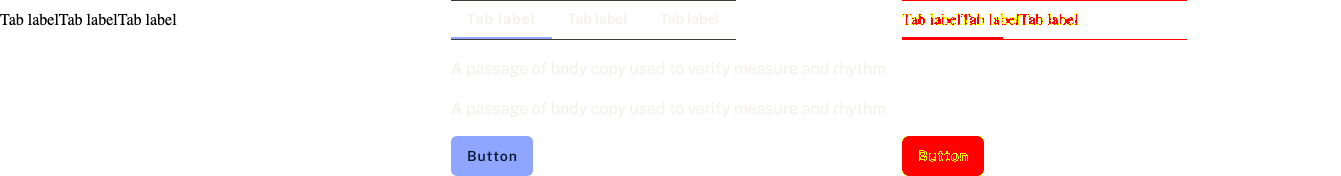
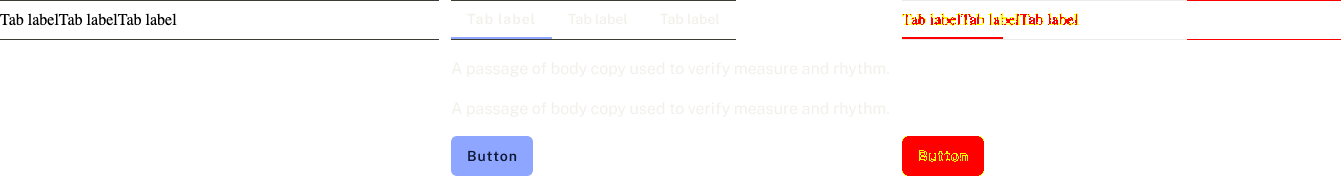
Re-measure Altitude Tabs with per-side strokes carried: the header rule is drawn, both variants still fail the limit
Re-ran the design-led pipeline on the real Altitude Tabs set (read-only REST)
under dump v1.34 and replaced the evidence with the fresh output.

- image difference 5.67 % -> 5.33 % (default) and 6.14 % -> 5.00 % (stretch,
  5.0049 %). Both remain ABOVE the unchanged 5 % limit; neither is a pass.
- the consumer's height now matches Figma's 176 px (was 174): the two 1 px
  rules occupy layout. Ink 1.4 % -> 2.5 % against the design's 12.7 %.
- stroke-weights-nonuniform receipts on the set: 2 -> 0.
- the generated header CSS carries border-top-width/border-bottom-width 1px
  with their solid keywords and no uniform border-width to hide them.

The Tab stub no longer carries a per-`active` border-color beside a false
`border-width: 0px`. That colour painted nothing; with REST no longer feeding
the stub path a uniform 0, the existing stub-stroke door withholds both halves
and the active tab's bottom-only 2 px indicator is NAMED in the proposal. The
receipt's problem set is unchanged. Drawing it is the stub geometry's next climb.

Generated without --stories, as the committed evidence was, so the receipt keeps
its 11 hashed files. docs: STYLE-FIDELITY A12 and the CURRENT.md Tabs clauses
state what is now true.

diff --git a/recipe/evidence/design-led-consumer/altitude-tabs/consumer-built.css b/recipe/evidence/design-led-consumer/altitude-tabs/consumer-built.css
@@ -225,14 +225,10 @@
   --font-weight-regular: 400;
   --font-weight-semibold: 600;
   --imported-stub-tab-2-root-background-color: #00000000;
-  --imported-stub-tab-2-root-border-color-no: #00000000;
-  --imported-stub-tab-2-root-border-color-yes: #8ea6ff;
-  --imported-stub-tab-2-root-border-width: 0px;
   --imported-stub-tab-2-root-height: 38px;
   --imported-stub-tab-panel-root-height: 136px;
   --imported-stub-tab-panel-root-width: 439px;
   --imported-tabs-al-c-tabs-header-border-color: #3c3c35;
-  --imported-tabs-al-c-tabs-header-border-width: 0px;
   --opacity-disabled: 0.5;
   --radius-100: 4px;
   --radius-200: 8px;
@@ -313,29 +309,20 @@
  * Regenerate with: npm run generate
  */
 
-._root_1cwa4_6,
-._root_1cwa4_6 *,
-._root_1cwa4_6 *::before,
-._root_1cwa4_6 *::after {
+._root_1cy4r_6,
+._root_1cy4r_6 *,
+._root_1cy4r_6 *::before,
+._root_1cy4r_6 *::after {
   box-sizing: border-box;
 }
 
-._root_1cwa4_6 {
+._root_1cy4r_6 {
   display: inline-flex;
   align-items: center;
   justify-content: center;
-  border-style: solid;
+  border: 0;
   height: var(--imported-stub-tab-2-root-height);
   background-color: var(--imported-stub-tab-2-root-background-color);
-  border-width: var(--imported-stub-tab-2-root-border-width);
-}
-
-._active-yes_1cwa4_23 {
-  border-color: var(--imported-stub-tab-2-root-border-color-yes);
-}
-
-._active-no_1cwa4_27 {
-  border-color: var(--imported-stub-tab-2-root-border-color-no);
 }
 /* GENERATED FILE — DO NOT EDIT.
  * Source of truth: contracts/tab-panel.contract.json (ds.tab-panel v0.1.0)
@@ -362,14 +349,14 @@
  * Regenerate with: npm run generate
  */
 
-._root_19y6t_6,
-._root_19y6t_6 *,
-._root_19y6t_6 *::before,
-._root_19y6t_6 *::after {
+._root_13tpd_6,
+._root_13tpd_6 *,
+._root_13tpd_6 *::before,
+._root_13tpd_6 *::after {
   box-sizing: border-box;
 }
 
-._root_19y6t_6 {
+._root_13tpd_6 {
   display: flex;
   flex-direction: column;
   border: 0;
@@ -377,20 +364,24 @@
   height: fit-content;
 }
 
-._alCTabsHeader_19y6t_21 {
+._alCTabsHeader_13tpd_21 {
   display: flex;
   flex-direction: row;
   border-color: var(--imported-tabs-al-c-tabs-header-border-color);
-  border-width: var(--imported-tabs-al-c-tabs-header-border-width);
-  border-style: solid;
+  border-top-style: solid;
+  border-bottom-style: solid;
+  border-top-width: 1px;
+  border-right-width: 0px;
+  border-bottom-width: 1px;
+  border-left-width: 0px;
 }
 
-._alCTabsList_19y6t_29 {
+._alCTabsList_13tpd_33 {
   display: flex;
   flex-direction: row;
 }
 
-._alCTabsBody_19y6t_34 {
+._alCTabsBody_13tpd_38 {
   display: flex;
   flex-direction: column;
 }

diff --git a/docs/CURRENT.md b/docs/CURRENT.md
@@ -28,7 +28,7 @@ These steps describe the intended product workflow. The full application integra
 | --- | --- | --- |
 | Original React source | A host-configured source preset opens ten original cases. The app exposes source checks, archived replay, measured trees, negative controls and side-by-side source images. Changed inputs or altered evidence invalidate readiness. | General repository onboarding, broader theme/state coverage and the admission boundary into conversion. |
 | React → editable Figma | The local app creates native root variants and a closed composed Card graph through the companion plugin. The graph contains seven dependency components, six parent variants, bound variables, forwarded Boolean state, native nested instances and directly editable caller text. Independent readback of the parent passed, including after Figma re-identified slot content; dependency mains are checked by identity only. A live edit stayed isolated to one instance, and repeat preparation created no duplicate operation or component set. Dependencies that themselves carry caller content in nested slots are refused by inventory. One application review shows the unchanged original beside the native default variant at original pixel scale. | Qualify fidelity and behavior across the frozen cohort with a deterministic score, and reduce first-run latency. Unsupported nested property representations must continue to refuse by name. |
-| Figma → reusable React | Readers propose contracts and deterministic emitters generate React. Both React emitters preserve declared root-toggle indeterminate state, disabled behavior and controlled values; an omitted state without a default remains unset. Declared next-value callbacks let consumers update controlled root and nested toggles, including triggers with literal text or slots. A separate declared initializer preserves default-only inputs without turning them into controlled state. A clean-consumer check now packages generated output, installs it into an isolated Vite consumer, mounts every variant, exercises the TEXT-bound prop and variant switching, checks whether undeclared children are refused or discarded, and scores each variant against Figma's render. On the designer-authored Altitude Badge set the library installed and behaved except that undeclared React children are accepted and discarded (a named failure), five dot variants scored 0% under the limit, and the five text variants, once both readers carried the designer's 1 px letter spacing instead of naming it a loss, render 57.27 px against Figma's 57 px: three pass the limit and two remain just above it (5.26 % and 6.90 %). The composed Altitude Tabs set installed with two auto-proposed child stubs and rendered its items from the design sample, but its Stretch axis was ledgered inert, per-side strokes and the panel's sample content were not carried, and both variants failed the limit. | Composition, instance swaps, declared behavior beyond text and variant props, accessibility measurement and the in-app review remain unfinished; two text-bearing Badge variants remain just above the image limit; the consumer check loads no font of its own and relies on the host having the design's family installed. |
+| Figma → reusable React | Readers propose contracts and deterministic emitters generate React. Both React emitters preserve declared root-toggle indeterminate state, disabled behavior and controlled values; an omitted state without a default remains unset. Declared next-value callbacks let consumers update controlled root and nested toggles, including triggers with literal text or slots. A separate declared initializer preserves default-only inputs without turning them into controlled state. A clean-consumer check now packages generated output, installs it into an isolated Vite consumer, mounts every variant, exercises the TEXT-bound prop and variant switching, checks whether undeclared children are refused or discarded, and scores each variant against Figma's render. On the designer-authored Altitude Badge set the library installed and behaved except that undeclared React children are accepted and discarded (a named failure), five dot variants scored 0% under the limit, and the five text variants, once both readers carried the designer's 1 px letter spacing instead of naming it a loss, render 57.27 px against Figma's 57 px: three pass the limit and two remain just above it (5.26 % and 6.90 %). The composed Altitude Tabs set installed with two auto-proposed child stubs and rendered its items from the design sample, but its Stretch axis was ledgered inert, the panel's sample content was not carried, and both variants failed the limit; the header's per-side strokes are carried since dump v1.34, while the active tab's per-side indicator on an instance stub is named, not drawn. | Composition, instance swaps, declared behavior beyond text and variant props, accessibility measurement and the in-app review remain unfinished; two text-bearing Badge variants remain just above the image limit; the consumer check loads no font of its own and relies on the host having the design's family installed. |
 | Changes and repair | The app applied reviewed opacity corrections to Checkbox variants, a fixed-height correction to a Button main, shadow-stack corrections to two Card mains, and SVG stroke corrections to six Checkbox vectors, with independent readbacks and preserved node identities. Channel diffs, three-way merge rules and proposal planning also exist. | Corrections cover opacity, literal dimensions on supported empty flex roots, supported root shadow stacks, and uniform strokes in simple viewBox-only SVG paths. Consecutive corrections retain a verified baseline chain; unresolved writes and conflicting changes refuse further application. The app can also repair the exact unrequested invisible default root paint on an otherwise valid draft; all other observed fields must match. The general sync spine still plans without applying. General two-way apply, baseline advancement, interruption recovery and rollback still need end-to-end proof. |
 | Release readiness | Shared engine checks and bounded evidence are available. | Complete both journeys, repair/recovery and the independent cohort before qualifying V1. |
 
@@ -121,7 +121,7 @@ The owner's React-only V1 asks for five demonstrations. Each row names what the 
 | Criterion | Demonstrated through the application | Evidence | Concrete gap |
 | --- | --- | --- | --- |
 | 1 · React → contract → editable native Figma for simple, stateful and composed components | Button (simple), Checkbox (stateful, 12 initial-state variants) and the composed Card graph (seven dependencies, six parent variants, 169 scoped variables) are created through the companion plugin from the verified shadcn cohort; the parent structure passes independent readback, including after Figma re-identified slot content; a live title edit stayed local to one instance; repeat preparation created no duplicates; the app shows the unchanged original beside the native default variant. | `/sources` → composed Card → **Check native composition** → **Create and inspect native graph**; private operation journal `4e6e22c3…` in the Evaluations file. | Visual fidelity is unqualified (seven Button initial-state exports still exceed the image limit; Card typography differs); dependency mains are verified by identity only; two-level caller content and deeper slot locations refuse by name; first-run latency remains too slow. |
-| 2 · Designer-authored Figma → contract → working React in a clean consumer | `npm run design:consumer:check` packages generated output, installs it into an isolated Vite consumer, mounts every variant, exercises text, array and variant props, refuses undeclared children by type, and scores each variant against Figma's render. Altitude Badge installed and behaved; Altitude Tabs (composed, two child stubs) installed and rendered its items from the design sample. | `recipe/evidence/design-led-consumer/{altitude-badge,altitude-tabs}/receipt.json`. | Badge: the 53 px against 57 px label was dropped letter spacing, not font metrics. Both Figma readers named the designer's 1 px tracking a loss while the proposer, the `letter-spacing` channel and the CSS emitter already carried it; they now carry it (dump v1.33). Re-measured on the real file: labels render 57.27 px against 57 px and image difference fell from 15.8–18.8 % to 3.2–6.9 %. Eight of ten variants pass; **neutral (5.26 %) and info (6.90 %) labels are still above the 5 % limit**, where the 57.27 px box captures as 58 px against Figma's 57 plus antialiasing. The limit is unchanged. Tabs still fails: it draws 1.4 % ink against the design's 12.7 % because its Stretch axis was ledgered inert, per-side strokes have no contract representation and stubs carry no panel content. The check is a CLI, not yet an application review. |
+| 2 · Designer-authored Figma → contract → working React in a clean consumer | `npm run design:consumer:check` packages generated output, installs it into an isolated Vite consumer, mounts every variant, exercises text, array and variant props, refuses undeclared children by type, and scores each variant against Figma's render. Altitude Badge installed and behaved; Altitude Tabs (composed, two child stubs) installed and rendered its items from the design sample. | `recipe/evidence/design-led-consumer/{altitude-badge,altitude-tabs}/receipt.json`. | Badge: the 53 px against 57 px label was dropped letter spacing, not font metrics. Both Figma readers named the designer's 1 px tracking a loss while the proposer, the `letter-spacing` channel and the CSS emitter already carried it; they now carry it (dump v1.33). Re-measured on the real file: labels render 57.27 px against 57 px and image difference fell from 15.8–18.8 % to 3.2–6.9 %. Eight of ten variants pass; **neutral (5.26 %) and info (6.90 %) labels are still above the 5 % limit**, where the 57.27 px box captures as 58 px against Figma's 57 plus antialiasing. The limit is unchanged. Tabs still fails: its Stretch axis was ledgered inert and stubs carry no panel content. Per-side strokes are now carried: both Figma readers write the header's drawn top 1 / right 0 / bottom 1 / left 0 weights as `strokeWeights` (dump v1.34) instead of naming them a loss beside a uniform weight of 0, and they reach the CSS as `border-<side>-width` literals, so the header rule that rendered as an invisible zero-width border is now drawn. Re-measured on the real file: image difference fell from 5.67 % to 5.33 % (default) and from 6.14 % to 5.00 % (stretch, 5.0049 %), the consumer's height now matches Figma's 176 px (was 174), and it draws 2.5 % ink against the design's 12.7 % (was 1.4 %). **Both variants are still above the unchanged 5 % limit.** The active tab's bottom-only 2 px indicator sits on an INSTANCE stub, whose geometry carries one uniform weight only: it is named in the proposal, not drawn. The check is a CLI, not yet an application review. |
 | 3 · Updates both ways, conflicts, interruption recovery, duplicate-free repeats | Bounded corrections (opacity, fixed dimensions, shadow stacks, SVG strokes, background layers) apply through the app with preflight, guarded update and independent readback; controlled tests cover repeat no-op, conflicts, rollback, forged identities, restart and lost acknowledgements; repeat preparation of every delivered operation reuses it without a new allocation. | `docs/CURRENT.md` "Changes and repair" row; `core/native-contract-*update*.ts` and `source-reference/native-operation-jobs.test.ts`. | General two-way apply and baseline advancement are not live-proven; a code-only and a design-only change re-observed on both surfaces, a real conflict, and an interrupted write recovered end to end remain to be demonstrated through the app. |
 | 4 · An independent component family without component-specific fixes | Radix Themes avatar, switch and checkbox minted and scored under the 5 % bar through the F1 recipe, not the application; the design-led consumer check ran on Altitude Badge and Tabs with no per-component code. | [F1 Radix round](../parity/receipts/v1/F1-RADIX-ROUND.md); `recipe/evidence/design-led-consumer/`. | No independent family has completed either journey through the application, and the design-led family results above fail fidelity. |
 | 5 · Installation, current documentation, supported limitations, acceptance evidence | Installation and the three entry paths are in the [user journey guide](../docs/USER-JOURNEYS.md); supported rules and refusals are named in this page and [React V1 scope](../docs/REACT-V1-SCOPE.md); this table is the acceptance ledger. | This page; `npm run docs:check` validates gated numbers and links. | Onboarding an arbitrary React repository is not supported; the configured shadcn preset is the only code-led source. |

diff --git a/docs/STYLE-FIDELITY.md b/docs/STYLE-FIDELITY.md
@@ -45,7 +45,7 @@ named degradation — zero remain.
 | A9 | blend modes (node + paint) | **no** | — | — | **SILENT-LOSS** | NAMED-GAP — `blend-mode-unsupported` degradation when ≠ NORMAL/PASS_THROUGH |
 | A10 | corner radius, uniform | yes | `border-radius` | all four | OK / MINTED | OK / MINTED |
 | A11 | corner radius, per-corner | REST: `radii-nonuniform` degradation; plugin: `figma.mixed` → **silent** | — | — | NAMED-GAP / **SILENT-LOSS** (plugin) | NAMED-GAP (both captures) |
-| A12 | per-side stroke weights (literal) | REST: `individualStrokeWeights` unread → **silent**; plugin: `figma.mixed` → **silent** (bound per-side weights ARE mapped; propose requires uniformity, notes otherwise) | — | — | **SILENT-LOSS** | NAMED-GAP — `stroke-weights-nonuniform` degradation |
+| A12 | per-side stroke weights (literal) | REST: `individualStrokeWeights` unread → **silent**; plugin: `figma.mixed` → **silent** (bound per-side weights ARE mapped; propose requires uniformity, notes otherwise) | — | — | **SILENT-LOSS** | **CARRIED** since dump v1.34 — both readers write `strokeWeights {top,right,bottom,left}` when the four sides are not all equal, INSTEAD of the uniform `strokeWeight` (REST reports 0 for sides [1,0,1,0], which is not a drawn fact; the plugin reports `figma.mixed`). Proposed as the four `border-<side>-width` LITERAL channels (`literals`, or `literalsByProp` when the weights follow one enum axis); a 0 side is carried as `0px`, and `borderStyleDecls` writes `border-<side>-style: solid` for the non-zero sides only. Still NAMED: a side that is not a finite non-negative number keeps the `stroke-weights-nonuniform` degradation; mixed/partial evidence across variants, an OUTSIDE (outline) stroke, partially bound weights, a per-side STATE override and per-side weights on an INSTANCE stub are named in the proposal notes, never guessed |
 | A13 | stroke align ≠ INSIDE, dash pattern | **no** (canvas emitter always writes INSIDE) | — | — | **SILENT-LOSS** | NAMED-GAP — `stroke-style-unsupported` degradation |
 | A14 | auto-layout (direction/justify/align/spacing/padding/sizing), merged | yes | layout block + padding/gap tokens | all four | OK | OK |
 | A15 | **per-variant layout differences** (tooltip placement class) | yes (per-variant trees) | **collapsed to the default variant's** with a note | — | NAMED-GAP (severe — placement inert) | **OK** — axis-correlated differences propose `layoutByProp` (existing v7 vocabulary; reversed child order → `row-reverse`/`column-reverse`); uncorrelated differences keep the note |
